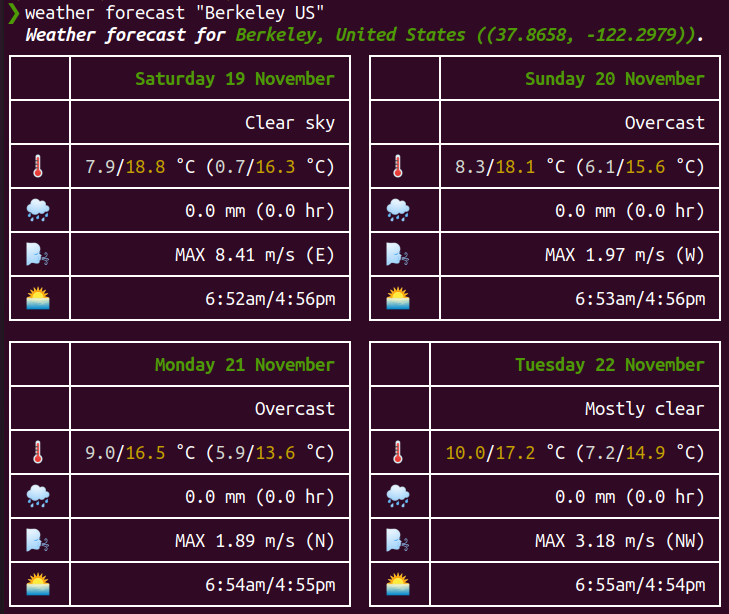
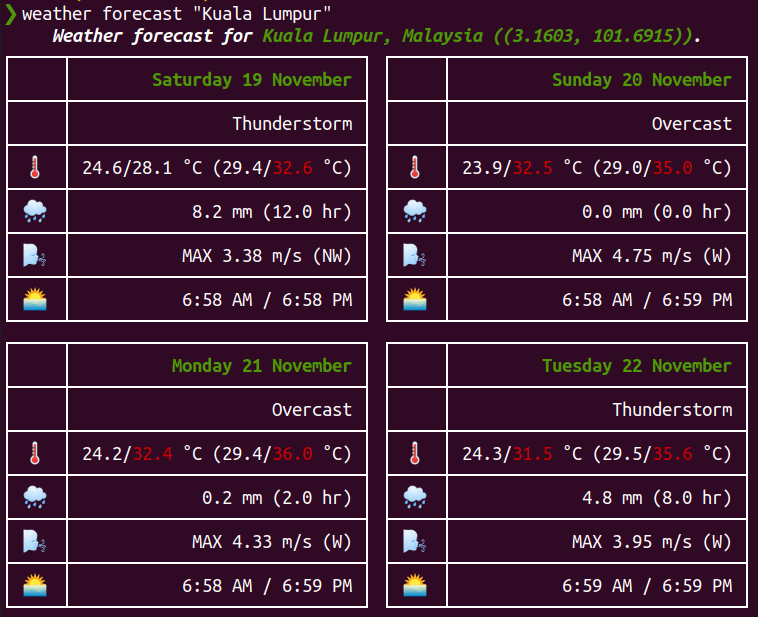
improve rendering of sunrise/sunset

Changed region(s): [[0.0, 0.0, 0.9959, 0.5261], [0.0, 0.557, 0.9959, 0.9902]]

diff --git a/weatherforecastcli/render.py b/weatherforecastcli/render.py
@@ -84,7 +84,7 @@ class DailyForecastRenderer:
         )
         table.add_row(
             ":sunrise: ",
-            f"{forecast.sunrise.strftime('%-I:%M%P')}/{forecast.sunset.strftime('%-I:%M%P')}",
+            f"{forecast.sunrise.strftime('%-I:%M %P').upper()} / {forecast.sunset.strftime('%-I:%M %P').upper()}",
         )
         return table
 
